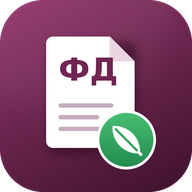
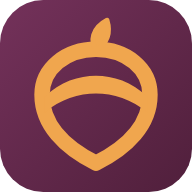
Иконка: жёлудь из логотипа на сливовом фоне (приложение, сайт, уведомления)
Claude-Session: https://claude.ai/code/session_018fkFa5x7H2s7pSNR9sPVYd

diff --git a/android/icon/icon.py b/android/icon/icon.py
@@ -2,41 +2,17 @@
 import asyncio, os, sys
 from playwright.async_api import async_playwright
 H=os.path.dirname(os.path.abspath(__file__)); RES=os.path.join(H,'..','app','src','main','res')
+# жёлудь из логотипа «Фруктовый Дом» (08.11.2026): оранжевый контур на сливовом фоне, минимализм
 DEFS='''<defs>
- <linearGradient id="bg" x1="0" y1="0" x2="1" y2="1"><stop offset="0" stop-color="#9A4377"/><stop offset=".55" stop-color="#6A2C4E"/><stop offset="1" stop-color="#43152F"/></linearGradient>
- <radialGradient id="glow" cx=".28" cy=".18" r=".75"><stop offset="0" stop-color="#fff" stop-opacity=".22"/><stop offset="1" stop-color="#fff" stop-opacity="0"/></radialGradient>
- <linearGradient id="paper" x1="0" y1="0" x2="0" y2="1"><stop offset="0" stop-color="#FFFFFF"/><stop offset="1" stop-color="#F3ECF0"/></linearGradient>
- <linearGradient id="fold" x1="0" y1="1" x2="1" y2="0"><stop offset="0" stop-color="#E9D6E1"/><stop offset="1" stop-color="#D4B6C7"/></linearGradient>
- <linearGradient id="leafbg" x1="0" y1="0" x2="1" y2="1"><stop offset="0" stop-color="#5BD08A"/><stop offset="1" stop-color="#1F8A4C"/></linearGradient>
- <filter id="sh" x="-30%" y="-30%" width="160%" height="160%"><feDropShadow dx="0" dy="1.6" stdDeviation="2.2" flood-color="#200818" flood-opacity=".38"/></filter>
- <filter id="sh2" x="-30%" y="-30%" width="160%" height="160%"><feDropShadow dx="0" dy="1" stdDeviation="1.3" flood-color="#0b2a17" flood-opacity=".35"/></filter>
+ <linearGradient id="bg" x1="0" y1="0" x2="1" y2="1"><stop offset="0" stop-color="#7A3560"/><stop offset="1" stop-color="#4A1C36"/></linearGradient>
 </defs>'''
-BG='<rect width="108" height="108" fill="url(#bg)"/><rect width="108" height="108" fill="url(#glow)"/>'
-def fg(mono=False):
-    W='#fff'
-    paper= W if mono else 'url(#paper)'
-    doc=f'''<g {'' if mono else 'filter="url(#sh)"'}>
-  <path d="M35.5 25h27l11 11v41.5a3.5 3.5 0 0 1-3.5 3.5h-34.5a3.5 3.5 0 0 1-3.5-3.5v-49a3.5 3.5 0 0 1 3.5-3.5z" fill="{paper}"/>
-  {'' if mono else '<path d="M62.5 25l11 11h-8a3 3 0 0 1-3-3z" fill="url(#fold)"/>'}
-</g>'''
-    if mono:   # силуэт для тематических иконок Android 13+: вырезаем буквы и линии
-        return f'''<mask id="m"><rect width="108" height="108" fill="#fff"/>
-  <path d="M62.5 25l11 11h-8a3 3 0 0 1-3-3z" fill="#000"/>
-  <text x="50.5" y="51.5" text-anchor="middle" font-family="Inter" font-weight="800" font-size="16.5" letter-spacing="-.3" fill="#000">ФД</text>
-  <rect x="38" y="58" width="25" height="2.6" rx="1.3" fill="#000"/><rect x="38" y="63.4" width="19" height="2.6" rx="1.3" fill="#000"/><rect x="38" y="68.8" width="15" height="2.6" rx="1.3" fill="#000"/>
-  <circle cx="71" cy="71" r="14.2" fill="#000"/></mask>
-  <g mask="url(#m)">{doc}</g>
-  <circle cx="71" cy="71" r="11.6" fill="#fff"/>
-  <g transform="translate(71 71.6) rotate(38)"><path d="M0-8.2C5.8-4.8 5.8 3.4 0 6.8-5.8 3.4-5.8-4.8 0-8.2z" fill="#000"/></g>'''
-    return f'''{doc}
-<text x="50.5" y="51.5" text-anchor="middle" font-family="Inter" font-weight="800" font-size="16.5" letter-spacing="-.3" fill="#6A2C4E">ФД</text>
-<rect x="38" y="58" width="25" height="2.6" rx="1.3" fill="#D9C2D0"/><rect x="38" y="63.4" width="19" height="2.6" rx="1.3" fill="#D9C2D0"/><rect x="38" y="68.8" width="15" height="2.6" rx="1.3" fill="#D9C2D0"/>
-<g filter="url(#sh2)"><circle cx="71" cy="71" r="13.4" fill="#fff"/><circle cx="71" cy="71" r="11.4" fill="url(#leafbg)"/></g>
-<g transform="translate(71 71.6) rotate(38)">
-  <path d="M0-8.2C5.8-4.8 5.8 3.4 0 6.8-5.8 3.4-5.8-4.8 0-8.2z" fill="#fff"/>
-  <path d="M0-5.6V9.4" stroke="#24914F" stroke-width="1.1" stroke-linecap="round"/>
-  <path d="M0-1.2l1.9-1.8M0 2.2l2.2-2M0-1.2l-1.9-1.8M0 2.2l-2.2-2" stroke="#24914F" stroke-width=".85" stroke-linecap="round"/>
-</g>'''
+BG='<rect width="108" height="108" fill="url(#bg)"/>'
+ORANGE='#F0A64E'
+def acorn(c):
+    return f'''<path d="M54 34.5C66.5 34.5 76.5 42.5 76.5 53.5C76.5 66 67 75.5 54 82C41 75.5 31.5 66 31.5 53.5C31.5 42.5 41.5 34.5 54 34.5Z" fill="none" stroke="{c}" stroke-width="6.4" stroke-linejoin="round"/>
+<path d="M54 35C51.6 31.2 52.2 25.8 58.6 22.4C60.2 27.6 58.6 32 54 35Z" fill="{c}" stroke="{c}" stroke-width="2" stroke-linejoin="round"/>
+<path d="M32.5 54.5C39 48 47 45.6 54 45.6C61 45.6 69 48 75.5 54.5L75.5 61C69 55.4 61 53 54 53C47 53 39 55.4 32.5 61Z" fill="{c}"/>'''
+def fg(mono=False): return acorn('#fff' if mono else ORANGE)
 def svg(body, vb='0 0 108 108'):
     return f'<svg xmlns="http://www.w3.org/2000/svg" viewBox="{vb}" width="100%" height="100%">{DEFS}{body}</svg>'
 LAYERS={'background':svg(BG),'foreground':svg(fg()),'monochrome':svg(fg(True))}
@@ -44,6 +20,7 @@ LAYERS={'background':svg(BG),'foreground':svg(fg()),'monochrome':svg(fg(True))}
 LEG=svg(f'<clipPath id="c"><rect x="14" y="14" width="80" height="80" rx="18"/></clipPath><g clip-path="url(#c)">{BG}{fg()}</g>','14 14 80 80')
 RND=svg(f'<clipPath id="c"><circle cx="54" cy="54" r="40"/></clipPath><g clip-path="url(#c)">{BG}{fg()}</g>','14 14 80 80')
 FULL=svg(BG+fg())
+SQ=svg(BG+fg(),'14 14 80 80')   # для iPhone: квадрат без скругления (углы скругляет сам iPhone)
 D={'mdpi':1,'hdpi':1.5,'xhdpi':2,'xxhdpi':3,'xxxhdpi':4}
 async def shot(pg, s, size, path):
     await pg.set_viewport_size({'width':size,'height':size})
@@ -57,6 +34,10 @@ async def main():
             await shot(pg, LEG, int(48*k), f'{RES}/mipmap-{d}/ic_launcher.png')
             await shot(pg, RND, int(48*k), f'{RES}/mipmap-{d}/ic_launcher_round.png')
         out=sys.argv[1] if len(sys.argv)>1 else H
-        await shot(pg, LEG, 1024, f'{out}/icon-1024.png'); await shot(pg, FULL, 1024, f'{out}/icon-full-1024.png'); await shot(pg, RND, 512, f'{out}/icon-round-512.png')
+        await shot(pg, LEG, 1024, f'{out}/icon-1024.png')
+        if len(sys.argv)>2:   # иконки сайта (корень репозитория): python3 icon.py <папка> <корень>
+            R=sys.argv[2]
+            for n,z in (('icon-192.png',192),('icon-512.png',512),('apple-touch-icon.png',180),('favicon.png',48)): await shot(pg, SQ if n=='apple-touch-icon.png' else RND if n=='favicon.png' else LEG, z, f'{R}/{n}')
+            await shot(pg, FULL, 512, f'{R}/icon-maskable-512.png'); await shot(pg, FULL, 1024, f'{out}/icon-full-1024.png'); await shot(pg, RND, 512, f'{out}/icon-round-512.png')
         await b.close()
 asyncio.run(main())

diff --git a/AGENTS.md b/AGENTS.md
@@ -69,7 +69,7 @@
 - **Вкладка «Закупка» сверху — «Закупка по накладным»** (`dev/src/zkp_seg.js`, `ZKP`, `zkp*`): переключатель «Список | Календарь» (`#zkp-vw`, запоминается на устройстве `frudom-zkpv`); **календарь** (`zkpCalDraw`): месяц ‹ › / «Сегодня», у дня — число накладных, сумма, точки цвета закупки, красная точка при убытке; нажатие на день — плитки и список только за этот день (фильтр «Все»), повторное — весь месяц. Список: накладные и комплекты за период (по умолчанию **7 дней**; 30 дней, месяц, прошлый, всё) одной строкой, статус как значок журнала (`zkJState`), плитки (накладных, без закупки, выручка, прибыль по заполненным), фильтры «Нужно заполнить / Нет / Частично / Заполнено / Все», поиск. Нажатие на строку раскрывает под ней тот же редактор, что в окне (`dcZkDraw` / `bzDraw`, обёртка `.zkp-edi.dcard`); открыт один, у редакторов общие id — `openCard` сворачивает его (`zkpCollapse`), после сохранения строка обновляется (`zkpAfter`). Обработчики `[data-zkc]`/`[data-bzk]` работают в `#fd-dcard` и `#zkp`. Ниже — свёрнутые разделы «Закупка Саида из сообщений MAX» (`#zkx-said`) и «Все закупки Саида» (`#zkx-hist`); «Открыть» из истории раскрывает раздел. **Замечания в блоке закупки** (`zkNote/zkNotesHtml`): «своя цена не вписана — из «Закупочных цен»», нехватка/не отгружено со склада — то, из-за чего значок жёлтый; без замечаний — «✓ Всё заполнено». Быстрая закупка «от кого — сумма» (`_src`) считается заполненной. Тест: `dev/test/zk-page.py`. **«Excel»** (08.11.2026; кнопка `data-zkxls` рядом с поиском, `zkx*` в конце zkp_seg.js): окно периода (по умолчанию как на экране — выбранный день календаря / период списка; чипы «Сегодня / Вчера / 7 дней / Этот месяц / Прошлый месяц»; **компактный календарь** `zkxDraw`/`ZKX` {a,b,ym,pick} с точками закупки как во вкладке (`zkpItemsIn(от,до)`): первое нажатие — один день (`pick`), второе — конец периода (можно листать месяцы), края закрашены `.edge`, между ними `.in`; счётчик накладных и «нет/частично/заполнено» за выбранное; без накладных кнопка неактивна) → книга `Закупка дд.мм.гггг–дд.мм.гггг.xlsx`: «Товары» (строка на товар: продано, цена и сумма продажи без НДС, откуда — закупка/со склада/часть/одной суммой, куплено, цена и сумма закупки, прибыль строки до налога), «Накладные» (выручка, закупка, прочие расходы, налог, прибыль, наценка, статус, как записана), «Итого по товарам» (куплено всего, сумма, средняя цена закупки и продажи). Всё из `docProfit`. Тест: `dev/test/zkp-xls.py` (без сети библиотека Excel — заглушка, с `XLSXJS` — настоящая).
 - **Закупка** (только admin, `zk*` в app.html). Вставляешь сообщения закупщика Саида («Цирк / Памидор 37х110=4050 / Телега 500») → сайт находит заказчика по названию точки и его накладные на дату закупки (±3 дня, сначала тот же и следующий день), сопоставляет строки с товарами накладной (опечатки, синонимы, исключение, «Укроп Петрушка» → два товара). Сохранение пишет закупочную цену за единицу (сумма / (кол-во × вес единицы Саида)) в «Себестоимость накладных» (`lines`, служебный ключ `_zk`), телегу/машины — в прочие расходы пропорционально сумме накладных. Выученное (название → товар, коробка = N кг, точка → заказчик) — в личных настройках (`prefs.zk`). Кнопка «Скопировать для Google Таблицы» — блок в формате таблицы закупок. У точки можно выбрать любую накладную заказчика («+ Другая накладная…») или «Без накладной» (сравнение с прайсом заказчика, сохранение — в «Закупочные цены» для этого заказчика с даты закупки). Колонки «По договору» (цена из накладной без НДС, без накладной — из прайса) и «Валовая прибыль» (после налога поставщика, АУСН 8%). Сводка замечаний `zkNotes`: дороже договора, низкая наценка, куплено больше/меньше накладной, ошибка в арифметике Саида, нераспознанные строки — 3 первых, остальные под «Ещё N». **История закупок**: лист «Закупки» (`purchases`, только admin; текст Саида, дата, `state` = выбор накладных и что сохранено по каждой точке). Закупка сохраняется сама (`zkStore`, через 1,5 с после правки), открывается из «Все закупки» на любом устройстве; повторное сохранение снимает закупку с накладных, которые больше не выбраны (`zkUndoDoc`, по `_zk.k` = id закупки); удаление закупки убирает её цены и телегу из прибыли. Если скрипт таблицы старый — закупки хранятся только на устройстве (`_local`) и уходят в таблицу после его обновления. **Закупка за неделю одним текстом**: даты в тексте (`zkDateOf`: «29.10», «29 октября», день недели, «вчера», дата в шапке сообщения MAX) задают дату блока; повтор точки — отдельный блок (`ключ#2`, `ключ@мм-дд`). Если точка встречается несколько раз, `zkPlan` подбирает каждой свою дату накладных по совпадению товаров и количества (`zkScore`), блоки с одной и той же накладной объединяются (`zkAll`, «Разделить» → `apart`).
 - **Отмена действий** (`dev/src/undo_seg.js`, на всех вкладках). Внизу слева кнопка «Отменить: <что именно>» и «Вернуть», Ctrl+Z / Ctrl+Shift+Z (Ctrl+Y). У каждой вкладки свой список шагов (до 60). Одно нажатие = один шаг, набор текста в одном поле подряд = один шаг. После удаления всплывает «Удалено · Отменить». Записи таблицы ловятся в `dirty/dirtyPrice/dirtySpec` → `undoNote` (прежний вид из «тени» `UNDO.sh`), черновик/заявка/закупка/личные настройки — сравнением (`UN_LOCAL`). Сохранение документа (`commitDoc`), загрузка из таблицы (`applyServer`, `zkMerge`, `serverPrefs`, `patchAll`) в шаги не попадают. Перед отменой сверяется, что запись не изменили после (другой пользователь) — такой кусок пропускается с предупреждением. Отмена пишется в «События» («Отмена»). Тест: `dev/test/undo.py`.
-- **Приложение Android (APK)** — папка `android/`: окно с сайтом `dskoby-maker.github.io/frudom-docs` (пакет `ru.frudom.docs`, «Документы ФД»). Сайт обновляется сам — APK пересобирать только при смене адреса, иконки или названия. Мост `android/app/src/main/assets/bridge.js`: скачивание (PDF, Excel, XML, JSON → «Загрузки/Документы ФД», окно «Открыть / Отправить»), печать (`window.print` и скрытые рамки печати → печать Android, A4 без полей), «Назад» сначала закрывает окна сайта (`__fdBack`), выбор файла с камерой. Сборка без подписи — сама на GitHub (`.github/workflows/apk.yml`, выпуск `apk-build-<ветка>`: `unsigned.apk`, снимки экрана эмулятора `shot1.png`, `errors.txt`). Подпись — `python3 android/sign_apk.py unsigned.apk frudom-docs.apk key.p12 ПАРОЛЬ`; **ключ и пароль только на Google Диске Даниила** (папка «Документы ФД — ключ приложения Android (не удалять)»), в репозиторий не класть. Готовый подписанный файл — `frudom-docs.apk` в корне репозитория, ссылка для скачивания: https://dskoby-maker.github.io/frudom-docs/frudom-docs.apk (выпуски GitHub создавать из сессии Claude нельзя). Иконка — `android/icon/icon.py`. Проверка моста на сайте — `android/bridge-test.py`. **Уведомления и виджет** (08.11.2026): сайт отдаёт приложению вход (`__fd.acct` → `bridge.js` раз в 4 с → `FrudomApp.setAccount`, хранится в SharedPreferences «notify»); фоновая проверка `NotifyJob` (JobScheduler, по умолчанию раз в час, переживает перезагрузку) → `Notifier.check` → GET `action=notes` в Code.gs ≥ 21 (`notes_`, без общей блокировки: `bank` — поступления за 4 дня + подкачка банка `sync=1`, только admin; `debt` — накладные не оплачены > 30 дней, сводка, только admin; `staff` — «События» других пользователей после `evAfter`, без «Вход»; `tasks` — «Задачи на день» на сегодня, не выполненные). Повторы отсекает приложение (`seen`, `day_debt/day_tasks`, первая проверка старое не присылает). Каналы Android по видам (звук настраивается в Android). Экран `NotifySettingsActivity` (без XML): выключатели видов, частота 15 мин/1 ч/3 ч/6 ч, тихие часы (22–8), время утренней сводки (9:00), долги «каждый день / по понедельникам», «Проверить сейчас», «Разрешить проверять в фоне»; открывается из «Данных» (`#app-ntf` — первая карточка после «Хранилища»; в новом приложении кнопка `FrudomApp.openNotify`, в старом приложении и в браузере на Android — «Скачать приложение» `#app-ntf-get`), из уведомления («Настроить») и ярлыком. **Виджет** `QuickWidget` («− Расход / + Доход / Личное») и ярлыки на значке → `MainActivity` с `quick` → `__fd.quick(k)` (`appQuick`: вкладка «Прибыль», `loadProfit`, `pvItemOpen`; ответы ok/login/wait/denied); уведомление → `go` → `__fd.go(tab)`. Тест сайта: `dev/test/app-hooks.py`. Эмулятор снимает ещё `shot3/shot4` (настройки) и `shot5` (виджет без входа). ⚠ 08.11.2026 в сессии не было terser — `app.js` сжат через esbuild (`/opt/npm-tools/node_modules/esbuild`, без csso), работает так же.
+- **Приложение Android (APK)** — папка `android/`: окно с сайтом `dskoby-maker.github.io/frudom-docs` (пакет `ru.frudom.docs`, «Документы ФД»). Сайт обновляется сам — APK пересобирать только при смене адреса, иконки или названия. Мост `android/app/src/main/assets/bridge.js`: скачивание (PDF, Excel, XML, JSON → «Загрузки/Документы ФД», окно «Открыть / Отправить»), печать (`window.print` и скрытые рамки печати → печать Android, A4 без полей), «Назад» сначала закрывает окна сайта (`__fdBack`), выбор файла с камерой. Сборка без подписи — сама на GitHub (`.github/workflows/apk.yml`, выпуск `apk-build-<ветка>`: `unsigned.apk`, снимки экрана эмулятора `shot1.png`, `errors.txt`). Подпись — `python3 android/sign_apk.py unsigned.apk frudom-docs.apk key.p12 ПАРОЛЬ`; **ключ и пароль только на Google Диске Даниила** (папка «Документы ФД — ключ приложения Android (не удалять)»), в репозиторий не класть. Готовый подписанный файл — `frudom-docs.apk` в корне репозитория, ссылка для скачивания: https://dskoby-maker.github.io/frudom-docs/frudom-docs.apk (выпуски GitHub создавать из сессии Claude нельзя). Иконка — жёлудь из логотипа на сливовом фоне (08.11.2026), `android/icon/icon.py` (`python3 android/icon/icon.py <папка> .` — заодно иконки сайта в корне); значок уведомления `drawable/ic_stat.xml` — тот же жёлудь. Проверка моста на сайте — `android/bridge-test.py`. **Уведомления и виджет** (08.11.2026): сайт отдаёт приложению вход (`__fd.acct` → `bridge.js` раз в 4 с → `FrudomApp.setAccount`, хранится в SharedPreferences «notify»); фоновая проверка `NotifyJob` (JobScheduler, по умолчанию раз в час, переживает перезагрузку) → `Notifier.check` → GET `action=notes` в Code.gs ≥ 21 (`notes_`, без общей блокировки: `bank` — поступления за 4 дня + подкачка банка `sync=1`, только admin; `debt` — накладные не оплачены > 30 дней, сводка, только admin; `staff` — «События» других пользователей после `evAfter`, без «Вход»; `tasks` — «Задачи на день» на сегодня, не выполненные). Повторы отсекает приложение (`seen`, `day_debt/day_tasks`, первая проверка старое не присылает). Каналы Android по видам (звук настраивается в Android). Экран `NotifySettingsActivity` (без XML): выключатели видов, частота 15 мин/1 ч/3 ч/6 ч, тихие часы (22–8), время утренней сводки (9:00), долги «каждый день / по понедельникам», «Проверить сейчас», «Разрешить проверять в фоне»; открывается из «Данных» (`#app-ntf` — первая карточка после «Хранилища»; в новом приложении кнопка `FrudomApp.openNotify`, в старом приложении и в браузере на Android — «Скачать приложение» `#app-ntf-get`), из уведомления («Настроить») и ярлыком. **Виджет** `QuickWidget` («− Расход / + Доход / Личное») и ярлыки на значке → `MainActivity` с `quick` → `__fd.quick(k)` (`appQuick`: вкладка «Прибыль», `loadProfit`, `pvItemOpen`; ответы ok/login/wait/denied); уведомление → `go` → `__fd.go(tab)`. Тест сайта: `dev/test/app-hooks.py`. Эмулятор снимает ещё `shot3/shot4` (настройки) и `shot5` (виджет без входа). ⚠ 08.11.2026 в сессии не было terser — `app.js` сжат через esbuild (`/opt/npm-tools/node_modules/esbuild`, без csso), работает так же.
 - **Редактор PDF** (вкладка `pdf`, видят все): нажатие на вкладку открывает https://frudom.ru/pdf в новой вкладке (`goTab`, `PDF_URL`), на сайте — страница с кнопкой «Открыть редактор PDF» на случай, если браузер не дал открыть окно. Тест: `dev/test/pdf-tab.py`.
 - **Адрес вкладки** (`TAB_SLUG`: #dokument, #zayavka, #zhurnal, #kalendar, #zakazchiki, #sklad, #zakupka, #pribyl, #sobytiya, #postavshchiki, #zadachi, #tovary, #arkhiv, #dannye): `showTab` пишет адрес через `history.replaceState` (без лишних шагов «Назад») и запоминает последнюю вкладку пользователя (`frudom-lasttab:<имя>`); `startTab`: адрес → последняя вкладка → `START_TAB`; смена адреса вручную переключает вкладку. Тест: `dev/test/tabs-links.py`.
 - **Переходы между окнами** (`NAV`, `navOpen/navBack/navDecorate` в app.html перед `openCard`): если из окна открыть другое (комплект → документ, документ → «Декларации», история товара → накладная, товар → партия…), в шапке нового появляется «‹ Комплект» / «‹ Документ № …» (по надписи прошлого окна). Возврат открывает прошлое окно заново со свежими данными и той же прокруткой; плавный сдвиг вперёд/назад (классы `nav fwd|back`). Назад: кнопка, Esc, кнопка «Назад» телефона (закрытие окна снаружи → `close` → `navBack`), Alt+←, боковая кнопка мыши. Крестик и клик мимо — закрыть всё и забыть путь. Вернуться можно только в окна, которые умеют открыться заново: `CARD_RE` (docCard, bundleCard), `SK_RE` (skItemCard, skBatchCard, skItemHist, skItemDecl, skDayShip, dView, skDeclDocs); формы в путь не попадают, но «назад» из них ведёт к окну до формы; вернуться в окно, которое уже есть в пути, = назад до него; то же окно, перерисованное заново, шаг не добавляет. Тест: `dev/test/card-nav.py`.
